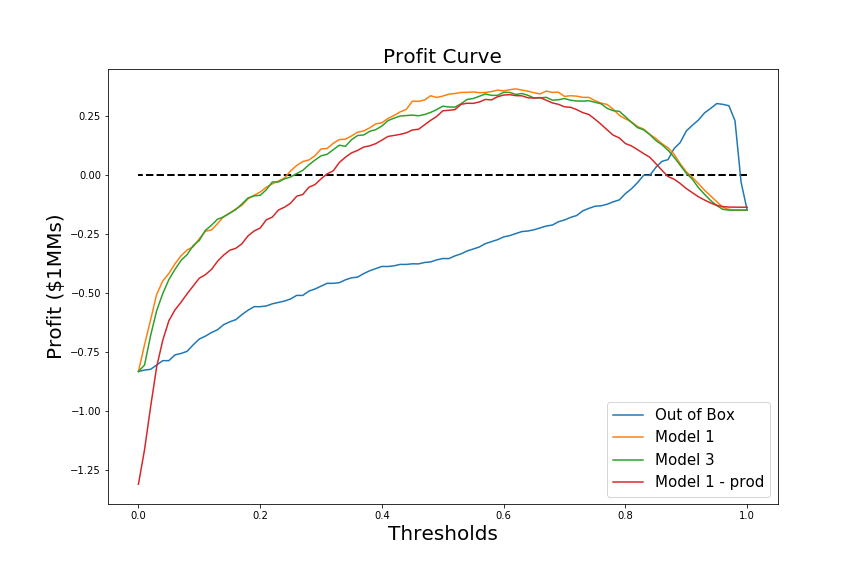
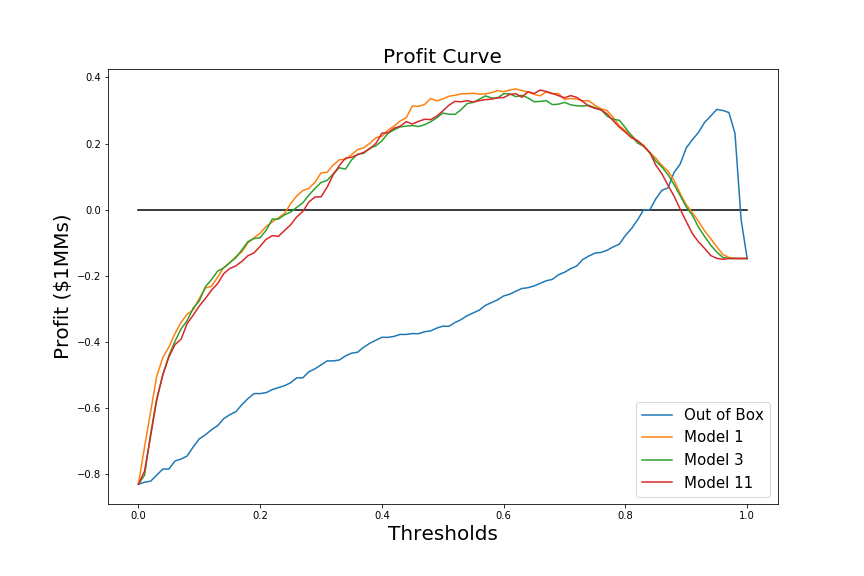
add images

diff --git a/README.md b/README.md
@@ -1,9 +1,6 @@
 ## CatBoost for Utilization Management
 *Applying Catboost to classify medical referrals as "approved" or "denied".*
 
-by: Tyson Ward
-
-
 #### Executive Summary
 
 The CatBoost algorithm was able identify the first 40% of referral approvals with 98% accuracy. A process for implementing the model into production is proposed.
@@ -61,7 +58,6 @@ Procedure Code | cpt1, cpt2 ... | What is being requested in the referral | cat 
 
 <img alt="Referral Volume by Specialty" src="imgs/vol_by_specs.png" width='600'>
 
-<sub><b>Figure: </b> Success is precision > 98% while auto-approvals are greater than 40%. </sub>
 
 
 
@@ -100,7 +96,7 @@ AUC-ROC            |  Precision at 40%
 ```python
 model_oob = CatBoostClassifier()
 ```
-#### Grid Search
+Grid Search
 
 The tutorial from the blog *Effective ML* was used to conduct coarse and refined searches over the following parameters:
 
@@ -109,7 +105,18 @@ The tutorial from the blog *Effective ML* was used to conduct coarse and refined
 * `learning_rate`
 * `depth` - how deep is each tree
 
+The result was Model 1.
+
 #### CatBoost - Model 1
+
+The tutorial from the blog *Effective ML* was used to conduct coarse and refined searches grid over the following parameters:
+
+* `l2_leaf_reg` - Used for leaf value calculation.
+* `iterations` - Number of trees
+* `learning_rate` - otherwise known as shrinkage rate.
+* `depth` - how deep is each tree
+
+The result was Model 1.
 
 ```python
 model1 = CatBoostClassifier(iterations=100, l2_leaf_reg=10,
@@ -125,14 +132,57 @@ l2_leaf_reg=30, class_weights=class_weight, use_best_model=True,
 eval_metric='Accuracy')
 ```
 
-
 #### CatBoost - Model 1 - production
 
 *If the model is put into production, referrals won't be manually labeled anymore (& assumed to be accurate). Below is outline for a process to tune the model monthly using a small percentage of referrals (random selection) that are held out & manually labeled in order to continually tune the model.*
 
 <img alt="Categorical to Numerical Transformation" src="imgs/toward_imp.png" width='600'>
 
+
+#### CatBoost - Model 11 - High iterations, low learning rate.
+
+In *The Elements of Statistical Learning*, Hastie, Tibshirani, and Friedman (pp 361- 367) offer the following guidelines for lowering test error rates with boosting ensembles.
+
+* **Depth** - especially when interactions between variables may be important, tree depth (J) of 3 or more is important. J = 1 doesn't allow for any interactions and J = 2 only allows for first order interactions.  In practice, 4 < J < 8 offers enough depth without compromising computational time.
+* **Number of Trees** and **Learning Rate** - Empirically it has been found that smaller learning rates favor smaller test error, but must be paired with a higher number trees to reach a test error minimum. A good strategy is to set the learning rate to be very small and use early stopping to identify the right number of trees.
+
+In addition, I added "rsm=.5" to randomly choose a subset of features to consider at each iteration, akin to Random Forest. I felt this was important as I have a high number of features dominated by two that are more important.
+
+#### Feature Importance
+
+*The physician receiving the referral, and the first line item of what was requested appear to be more important that other variables.*
+
+From Breiman et al. (1984), in a single tree the relevance of predictor (X) can be measured by:
+
+<img alt="Categorical to Numerical Transformation" src="imgs/imp_tree.png" width='200'>
+
+As an extension, in additive models an average can be taken over many trees:
+
+<img alt="Categorical to Numerical Transformation" src="imgs/imp_boost.png" width='200'>
+
+Intuitively, each time a variable is selected as an optimal split variable, it's importance increases by how much information it provided in that split.
+
+Model 1 Feature importances:
+
+
+<img alt="Categorical to Numerical Transformation" src="imgs/featimps.png" width='600'>
+
+```python
+model11 = CatBoostClassifier(depth=4, iterations=4000, learning_rate=0.01, l2_leaf_reg=20,
+class_weights=class_weight, use_best_model=True, one_hot_max_size=100, rsm=.5)
+```
+
+
+
 ## Results
+
+|                | Test Accuracy | ROC-AUC | Precision, 40% AA | Max Profit |
+|:--------------:|:-------------:|:-------:|:-----------------:|:----------:|
+|   Model - OOB  |               |         |                   |            |
+|     Model 1    |               |         |                   |            |
+|     Model 3    |               |         |                   |            |
+| Model 1 - prod |               |         |                   |            |
+|    Model 11    |               |         |                   |            |
 
 #### Receiver Operating Characteristic
 
@@ -173,4 +223,9 @@ A profit curve can help us choose which threshold to set to obtain the largest a
 
 * [Yandex - CatBoost](https://tech.yandex.com/catboost/)
 * [Effective ML - blog for gridsearch](https://effectiveml.com/using-grid-search-to-optimise-catboost-parameters.html)
+* Hastie, T., Tibshirani, R., Friedman, J. (2017). *The Elements of Statistical Learning*, Springer, New York. pp. 353-371.
+* Breiman, L., Friedman, J., Olshen, R. and Stone, C. (1984). *Classification and Regression Trees*, Wadsworth, New York.
+
+#### Resources
+
 * [Press Release: Yandex launches CatBoost](https://techcrunch.com/2017/07/18/yandex-open-sources-catboost-a-gradient-boosting-machine-learning-librar/)
